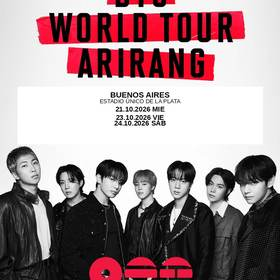
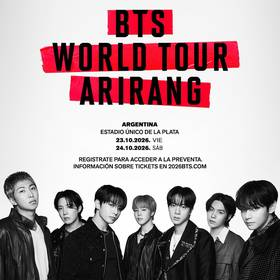
Use the official Argentina poster and line the ticket row up

diff --git a/app.js b/app.js
@@ -31,8 +31,8 @@ const TICKETS = [
     venue: "Estadio Único de La Plata",
     city: "La Plata, Argentina",
     month: "Octubre 2026",
-    image: "posters/argentina-arirang.jpg?v=2",
-    thumb: "posters/argentina-arirang-thumb.jpg?v=2",
+    image: "posters/argentina-arirang.jpg?v=3",
+    thumb: "posters/argentina-arirang-thumb.jpg?v=3",
     dateLabel: "Sáb, 24 oct 2026",
     timeLabel: "20:00",
     section: "Cabecera Norte",
@@ -265,7 +265,7 @@ function render() {
 function listView() {
   const cards = TICKETS.map((ticket) => `
     <a class="ticket-card" data-ticket-id="${ticket.id}" href="#/ticket/${ticket.id}" ${hidden.has(ticket.id) ? "hidden" : ""}>
-      <img src="${ticket.thumb}" alt="" width="800" height="800" decoding="async" />
+      <img src="${ticket.thumb}" alt="" width="92" height="92" decoding="async" />
       <div class="meta">
         <p><span class="qty" data-i18n="tickets">${tr("tickets")}</span> <span class="when" data-when="${ticket.id}">${lang === "es" ? ticket.whenEs : ticket.whenEn}</span></p>
         <h3>${ticket.title}</h3>

diff --git a/style.css b/style.css
@@ -91,32 +91,31 @@ a { color: inherit; text-decoration: none; }
 .hide-list[hidden],
 .all-hidden[hidden] { display: none !important; }
 .ticket-card {
-  display: grid;
-  grid-template-columns: 78px minmax(0, 1fr);
+  display: flex;
   align-items: stretch;
   gap: 10px;
   margin-bottom: 12px;
 }
 .ticket-card img {
-  width: 78px;
-  height: 104px;
-  min-height: 0;
+  width: 92px;
+  height: 92px;
+  flex: none;
   object-fit: cover;
-  object-position: center 28%;
+  object-position: center 30%;
   border-radius: 16px;
-  background: #fff;
+  background: #111;
 }
 .ticket-card .meta {
   flex: 1;
   min-width: 0;
-  min-height: 104px;
+  height: 92px;
   background: var(--surface);
   border-radius: 16px;
-  padding: 12px 14px;
+  padding: 10px 14px;
   display: flex;
   flex-direction: column;
   justify-content: center;
-  gap: 4px;
+  gap: 3px;
 }
 .qty { color: var(--accent); font-weight: 600; font-size: 13px; }
 .when { color: var(--muted); font-weight: 500; font-size: 13px; }

diff --git a/index.html b/index.html
@@ -13,10 +13,10 @@
   <link rel="apple-touch-icon" sizes="180x180" href="https://emma-dev4.github.io/quentro-clonee/apple-touch-icon.png" />
   <link rel="apple-touch-icon-precomposed" href="https://emma-dev4.github.io/quentro-clonee/apple-touch-icon-precomposed.png" />
   <link rel="manifest" href="manifest.webmanifest" />
-  <link rel="stylesheet" href="style.css?v=15" />
+  <link rel="stylesheet" href="style.css?v=16" />
 </head>
 <body>
   <div id="app"></div>
-  <script src="app.js?v=14"></script>
+  <script src="app.js?v=16"></script>
 </body>
 </html>
